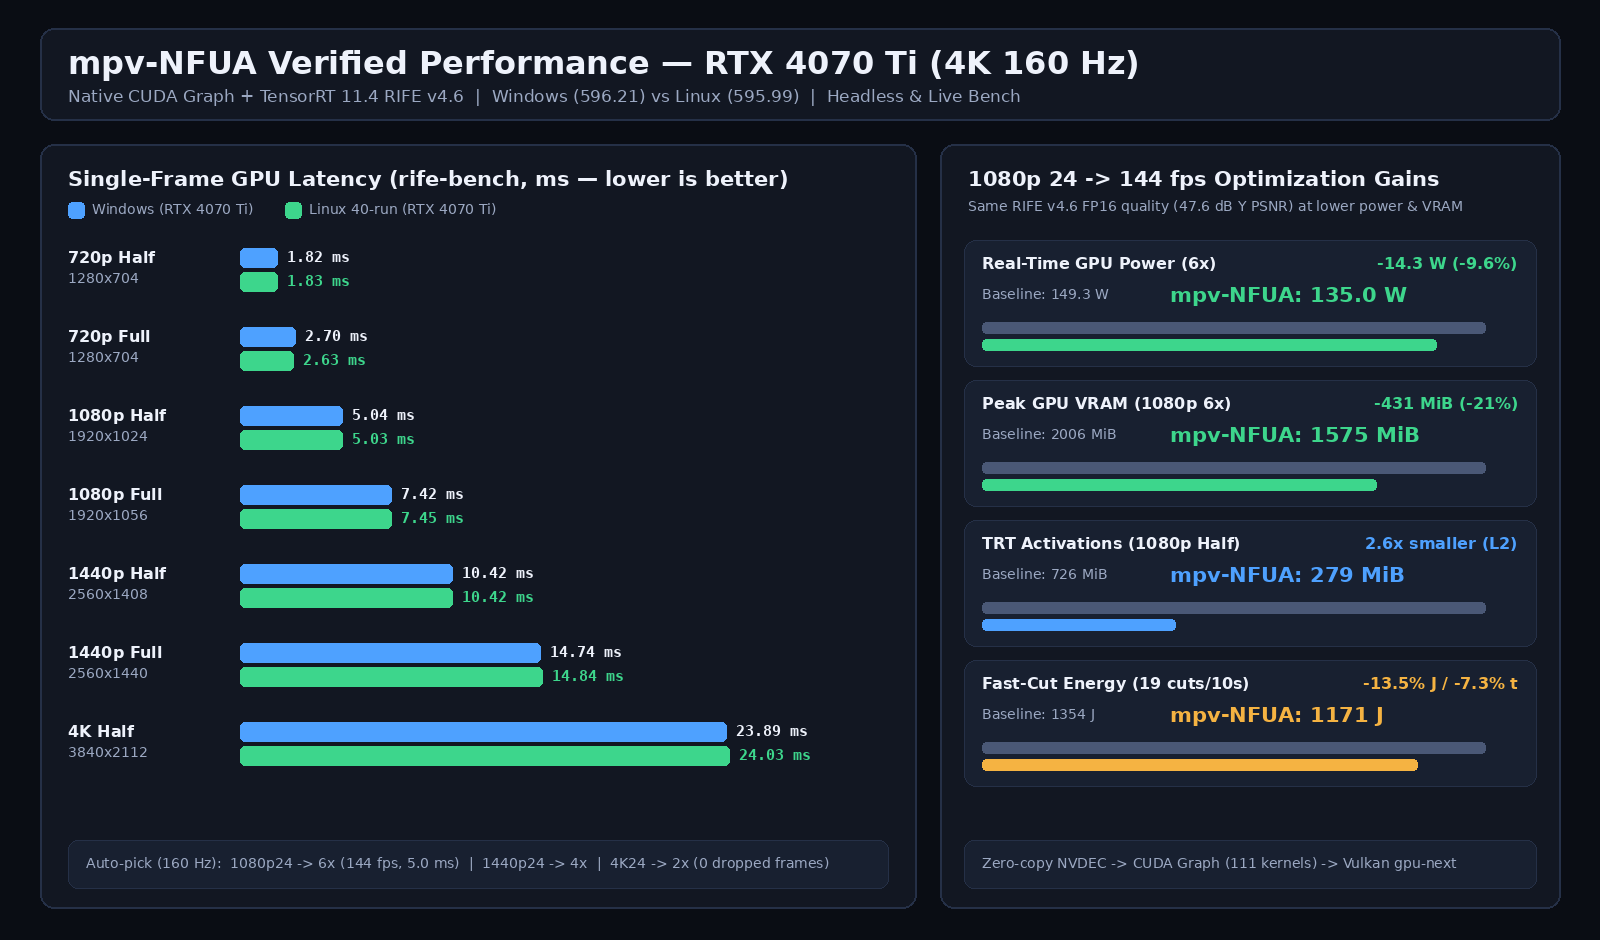
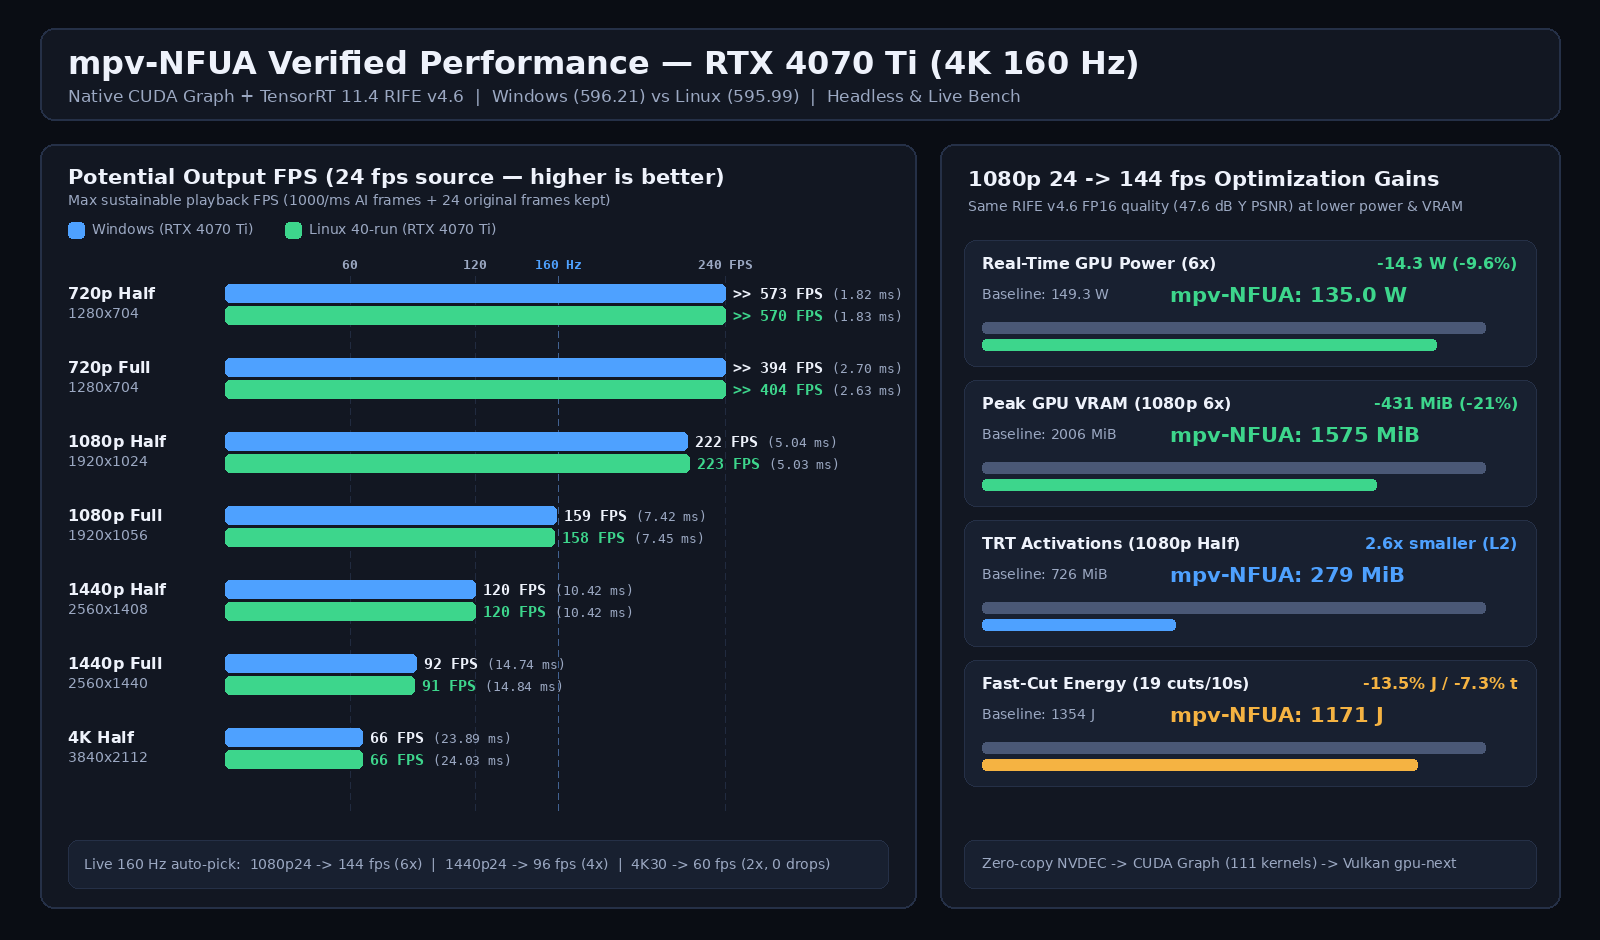
Show potential output FPS in benchmark chart and docs

Changed region(s): [[0.0312, 0.1851, 0.5625, 0.833], [0.0625, 0.8947, 0.5312, 0.9255], [0.0312, 0.7713, 0.0938, 0.833]]

diff --git a/docs/index.html b/docs/index.html
@@ -340,9 +340,9 @@
     .bench-table {
       --label-1: "Resolution";
       --label-2: "Flow";
-      --label-3: "Tensor";
-      --label-4: "Windows (RTX 4070 Ti)";
-      --label-5: "Linux Reference";
+      --label-3: "Max FPS (24 fps src)";
+      --label-4: "Windows (ms)";
+      --label-5: "Linux (ms)";
       --label-6: "Auto (160 Hz)";
     }
     .keys-table {
@@ -503,8 +503,8 @@
           <figcaption>Linux smart installer streaming only 3 GPU-specific TensorRT 11.4 libraries (469 MB vs 3.64 GB wheel) and auto-calibrating.</figcaption>
         </figure>
         <figure class="shot-card wide">
-          <a href="screenshots/benchmarks-rtx4070ti.png"><img src="screenshots/benchmarks-rtx4070ti.png" alt="RTX 4070 Ti Windows vs Linux latency and power/VRAM optimization dashboard" loading="lazy"></a>
-          <figcaption>RTX 4070 Ti Windows vs Linux single-frame latency and 1080p 144 fps optimization gains (-14.3 W, -431 MiB VRAM, 2.6x smaller activations).</figcaption>
+          <a href="screenshots/benchmarks-rtx4070ti.png"><img src="screenshots/benchmarks-rtx4070ti.png" alt="RTX 4070 Ti Windows vs Linux potential output FPS and power/VRAM optimization dashboard" loading="lazy"></a>
+          <figcaption>RTX 4070 Ti Windows vs Linux potential output FPS (from 24 fps source) and 1080p 144 fps optimization gains (-14.3 W, -431 MiB VRAM, 2.6x smaller activations).</figcaption>
         </figure>
       </div>
     </section>
@@ -584,12 +584,12 @@ cp -r ../source/video/filter/* video/filter/
       </div>
       <div tabindex="0" role="region" aria-labelledby="bench-cap" class="table-wrapper">
         <table class="bench-table">
-          <caption id="bench-cap">NVIDIA GeForce RTX 4070 Ti @ 160 Hz (rife-bench median GPU ms/frame: Windows 20 runs, Linux 40 runs)</caption>
+          <caption id="bench-cap">NVIDIA GeForce RTX 4070 Ti @ 160 Hz (Potential Output FPS from 24 fps source &amp; GPU ms/frame)</caption>
           <thead>
             <tr>
               <th scope="col">Resolution</th>
               <th scope="col">Flow</th>
-              <th scope="col">Tensor</th>
+              <th scope="col">Max FPS (24 fps src)</th>
               <th scope="col">Windows (Driver 596.21)</th>
               <th scope="col">Linux (Driver 595.99)</th>
               <th scope="col">Auto (160 Hz)</th>
@@ -599,7 +599,7 @@ cp -r ../source/video/filter/* video/filter/
             <tr>
               <th scope="row">720p (1280x720)</th>
               <td>Full</td>
-              <td>1280x704</td>
+              <td><strong>~404 FPS</strong></td>
               <td>2.70 ms</td>
               <td>2.63 ms</td>
               <td>24-&gt;6x, 30-&gt;5x, 60-&gt;2x</td>
@@ -607,7 +607,7 @@ cp -r ../source/video/filter/* video/filter/
             <tr>
               <th scope="row">720p (1280x720)</th>
               <td>Half</td>
-              <td>1280x704</td>
+              <td><strong>~570 FPS</strong></td>
               <td>1.82 ms</td>
               <td>1.83 ms</td>
               <td>High-fps auto</td>
@@ -615,7 +615,7 @@ cp -r ../source/video/filter/* video/filter/
             <tr>
               <th scope="row">1080p (1920x1080)</th>
               <td>Full</td>
-              <td>1920x1056</td>
+              <td><strong>~158 FPS</strong></td>
               <td>7.42 ms</td>
               <td>7.45 ms</td>
               <td>—</td>
@@ -623,7 +623,7 @@ cp -r ../source/video/filter/* video/filter/
             <tr>
               <th scope="row">1080p (1920x1080)</th>
               <td>Half</td>
-              <td>1920x1024</td>
+              <td><strong>~223 FPS</strong></td>
               <td>5.04 ms</td>
               <td>5.03 ms</td>
               <td>24-&gt;6x, 30-&gt;5x, 60-&gt;2x</td>
@@ -631,7 +631,7 @@ cp -r ../source/video/filter/* video/filter/
             <tr>
               <th scope="row">1440p (2560x1440)</th>
               <td>Full</td>
-              <td>2560x1440</td>
+              <td><strong>~91 FPS</strong></td>
               <td>14.74 ms</td>
               <td>14.84 ms</td>
               <td>—</td>
@@ -639,7 +639,7 @@ cp -r ../source/video/filter/* video/filter/
             <tr>
               <th scope="row">1440p (2560x1440)</th>
               <td>Half</td>
-              <td>2560x1408</td>
+              <td><strong>~120 FPS</strong></td>
               <td>10.42 ms</td>
               <td>10.42 ms</td>
               <td>24-&gt;4x, 30-&gt;3x, 60-&gt;2x</td>
@@ -647,7 +647,7 @@ cp -r ../source/video/filter/* video/filter/
             <tr>
               <th scope="row">4K (3840x2160)</th>
               <td>Half</td>
-              <td>3840x2112</td>
+              <td><strong>~66 FPS</strong> (30-&gt;60 live)</td>
               <td>23.89 ms</td>
               <td>24.03 ms</td>
               <td>24-&gt;2x, 30-&gt;2x (50/60: off)</td>

diff --git a/README.md b/README.md
@@ -89,17 +89,17 @@ Useful flags: `--dir <path>`, `--register`, `--no-prompt`, `--skip-bench`, `--bu
 
 ## Verified Benchmarks (RTX 4070 Ti, 3840x2160 @ 160 Hz)
 
-Measured via `rife-bench` (40 runs on Linux driver `595.99`, 20 runs on Windows driver `596.21`, median GPU ms per interpolated frame):
+Measured via `rife-bench` (40 runs on Linux driver `595.99`, 20 runs on Windows driver `596.21`; **Max Output FPS** from a `24 fps` source = `1000/ms + 24`):
 
-| Resolution | Flow Mode | Tensor Size | Windows (Driver 596.21) | Linux (Driver 595.99) | Auto Multiplier (160 Hz) |
+| Resolution | Flow Mode | Max Output FPS (24 fps src) | Windows (`ms`) | Linux (`ms`) | Auto Multiplier (160 Hz) |
 | :--- | :--- | :--- | :--- | :--- | :--- |
-| **720p** (`1280x720`) | Full | `1280x704` | `2.70 ms` | `2.63 ms` | `24->6x`, `30->5x`, `60->2x` |
-| **720p** (`1280x720`) | Half | `1280x704` | `1.82 ms` | `1.83 ms` | (used on high fps) |
-| **1080p** (`1920x1080`) | Full | `1920x1056` | `7.42 ms` | `7.45 ms` | — |
-| **1080p** (`1920x1080`) | Half | `1920x1024` | `5.04 ms` | `5.03 ms` | `24->6x`, `30->5x`, `60->2x` |
-| **1440p** (`2560x1440`) | Full | `2560x1440` | `14.74 ms` | `14.84 ms` | — |
-| **1440p** (`2560x1440`) | Half | `2560x1408` | `10.42 ms` | `10.42 ms` | `24->4x`, `30->3x`, `60->2x` |
-| **4K** (`3840x2160`) | Half | `3840x2112` | `23.89 ms` | `24.03 ms` | `24->2x`, `30->2x` (`50/60`: off) |
+| **720p** (`1280x720`) | Full | **`~404 FPS`** | `2.70 ms` | `2.63 ms` | `24->6x`, `30->5x`, `60->2x` |
+| **720p** (`1280x720`) | Half | **`~570 FPS`** | `1.82 ms` | `1.83 ms` | (used on high fps) |
+| **1080p** (`1920x1080`) | Full | **`~158 FPS`** | `7.42 ms` | `7.45 ms` | — |
+| **1080p** (`1920x1080`) | Half | **`~223 FPS`** | `5.04 ms` | `5.03 ms` | `24->6x`, `30->5x`, `60->2x` |
+| **1440p** (`2560x1440`) | Full | **`~91 FPS`** | `14.74 ms` | `14.84 ms` | — |
+| **1440p** (`2560x1440`) | Half | **`~120 FPS`** | `10.42 ms` | `10.42 ms` | `24->4x`, `30->3x`, `60->2x` |
+| **4K** (`3840x2160`) | Half | **`~66 FPS`** (`30->60 live`) | `23.89 ms` | `24.03 ms` | `24->2x`, `30->2x` (`50/60`: off) |
 
 ### Efficiency & Scene-Cut Comparison (Linux, RTX 4070 Ti, 1080p 24 → 144 fps `6x` half flow)
 
